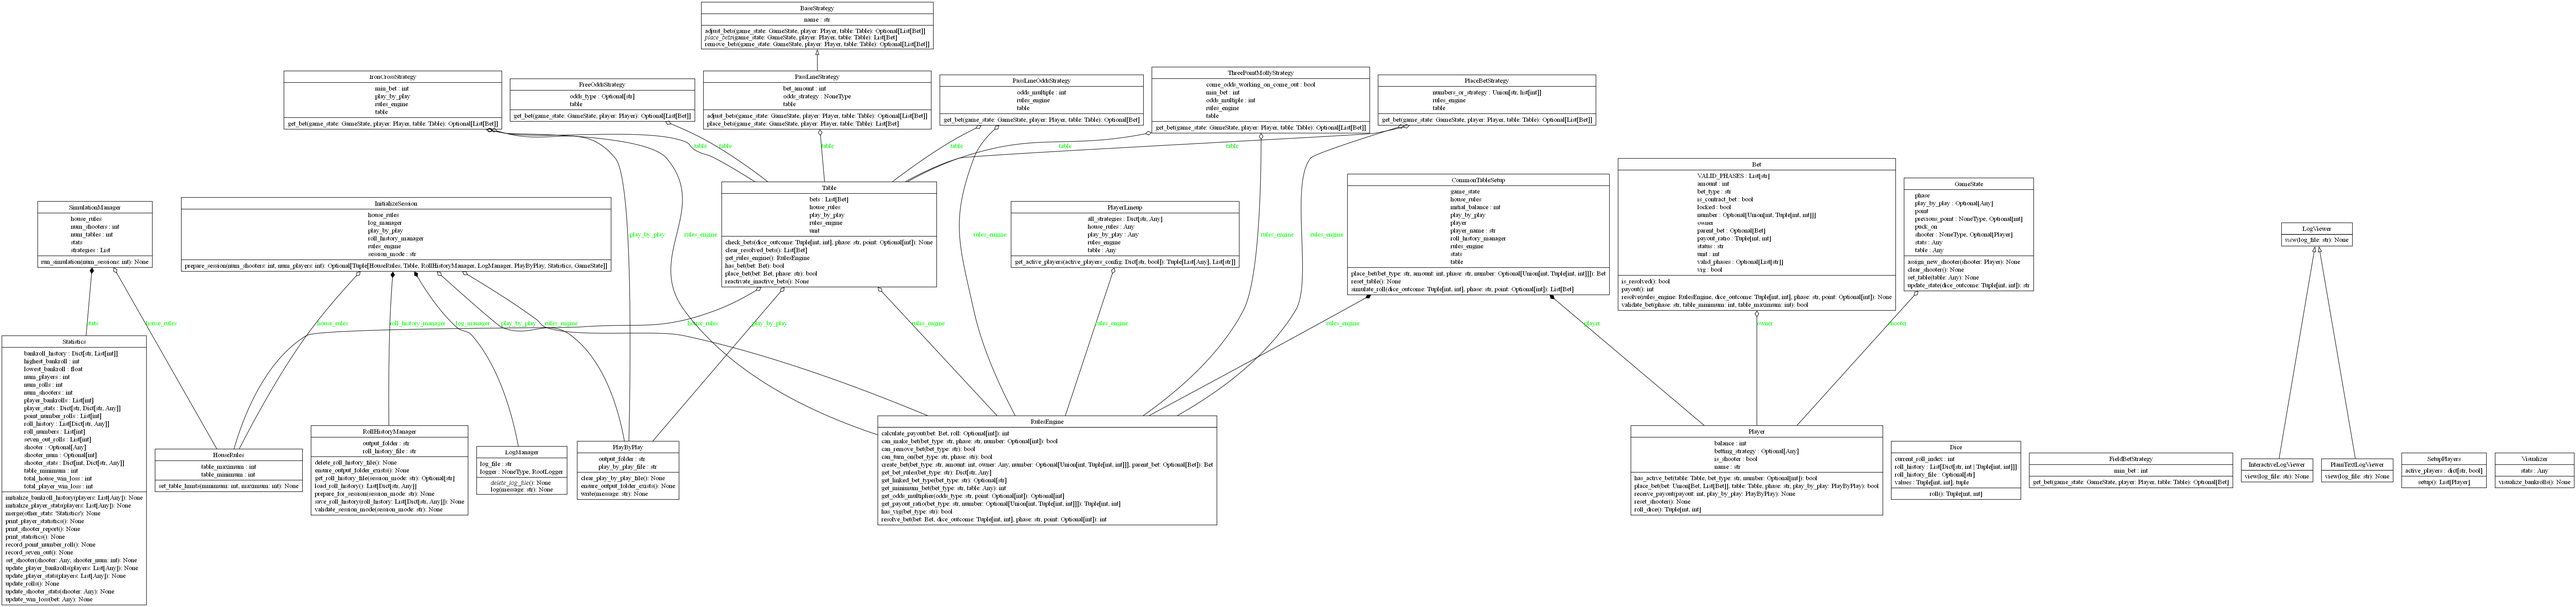
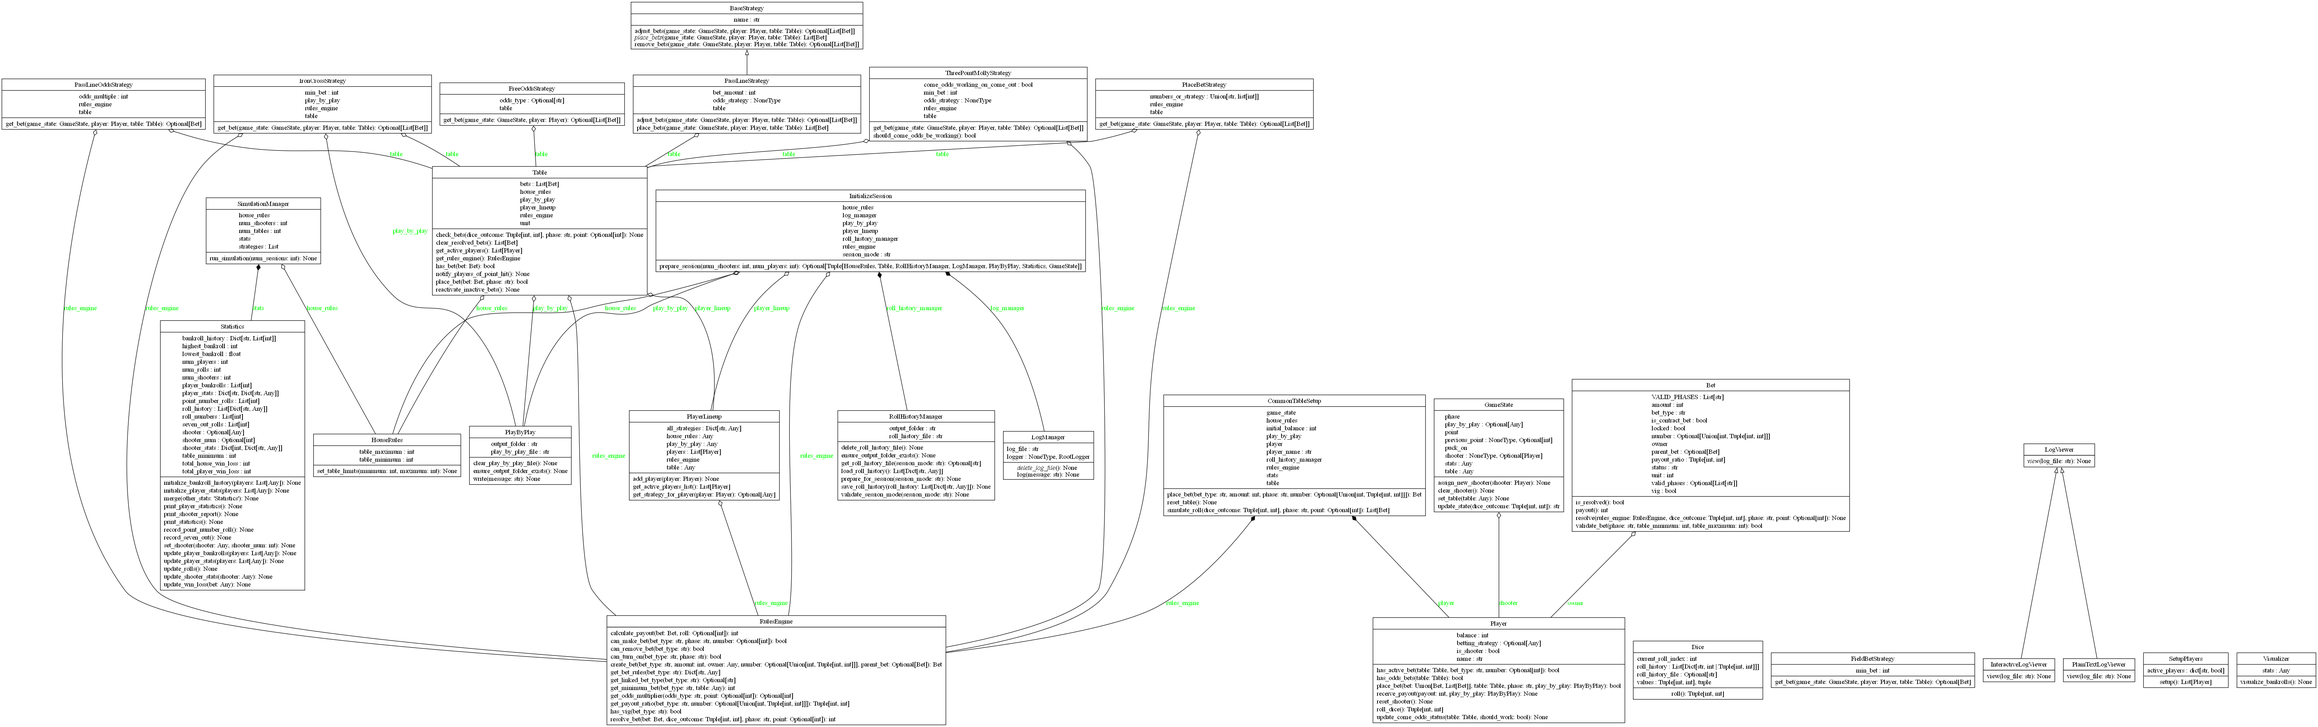
Added Odds On/Off to Lineup

diff --git a/craps/strategies/three_point_molly_strategy.py b/craps/strategies/three_point_molly_strategy.py
@@ -1,5 +1,6 @@
 from __future__ import annotations  # Enable forward references for type hints
 from typing import TYPE_CHECKING, List, Optional
+from craps.strategies.free_odds_strategy import FreeOddsStrategy
 
 if TYPE_CHECKING:
     from craps.table import Table  # Prevents circular imports
@@ -10,22 +11,22 @@ if TYPE_CHECKING:
 
 class ThreePointMollyStrategy:
     """Betting strategy for the 3-Point Molly system."""
-    
-    def __init__(self, table: Table, rules_engine: RulesEngine, min_bet: int, odds_multiple: int = 1, come_odds_working_on_come_out: bool = False) -> None:
+
+    def __init__(self, table: Table, rules_engine: RulesEngine, min_bet: int, odds_type: Optional[str] = None, come_odds_working_on_come_out: bool = False) -> None:
         """
         Initialize the 3-Point Molly strategy.
 
         :param table: The table object to determine minimum bets.
         :param rules_engine: The RulesEngine instance from the table.
         :param min_bet: The minimum bet amount for the table.
-        :param odds_multiple: The multiple of the minimum bet to use for odds (e.g., 1x, 2x).
+        :param odds_type: The type of odds to use (e.g., "3x-4x-5x").
         :param come_odds_working_on_come_out: Whether Come odds bets are working during the come-out roll.
         """
-        self.table: Table = table
-        self.rules_engine: RulesEngine = rules_engine  # Use existing RulesEngine, do not create a new one
-        self.min_bet: int = min_bet
-        self.odds_multiple: int = odds_multiple
-        self.come_odds_working_on_come_out: bool = come_odds_working_on_come_out
+        self.table = table
+        self.rules_engine = rules_engine  # Use existing RulesEngine
+        self.min_bet = min_bet
+        self.odds_strategy = FreeOddsStrategy(table, odds_type) if odds_type else None  # Delegate odds to FreeOddsStrategy
+        self.come_odds_working_on_come_out = come_odds_working_on_come_out
 
     def get_bet(self, game_state: GameState, player: Player, table: Table) -> Optional[List[Bet]]:
         """
@@ -36,51 +37,27 @@ class ThreePointMollyStrategy:
         :param table: The table to place the bets on.
         :return: A list of bets to place, or None if no bets are placed.
         """
-        rules_engine = self.rules_engine  # Use the passed RulesEngine
         bets: List[Bet] = []
 
         # Place a Pass Line bet if no active Pass Line bet exists (only during come-out phase)
         if game_state.phase == "come-out":
             if not any(bet.bet_type == "Pass Line" for bet in table.bets if bet.owner == player):
-                bets.append(rules_engine.create_bet(
-                    "Pass Line",
-                    self.min_bet,
-                    player
-                ))
+                bets.append(self.rules_engine.create_bet("Pass Line", self.min_bet, player))
 
         # Place up to 3 Come bets if fewer than 3 active Come bets exist (only during point phase)
         if game_state.phase == "point":
             active_come_bets = [bet for bet in table.bets if bet.bet_type == "Come" and bet.owner == player]
             if len(active_come_bets) < 3:
-                bets.append(rules_engine.create_bet(
-                    "Come",
-                    self.min_bet,
-                    player
-                ))
+                bets.append(self.rules_engine.create_bet("Come", self.min_bet, player))
 
-        # Place odds on active Pass Line and Come bets (only during point phase)
-        if game_state.phase == "point":
-            for bet in table.bets:
-                if bet.owner == player:
-                    if bet.bet_type == "Pass Line" and bet.status == "active":
-                        # Place Pass Line Odds
-                        odds_amount = self.min_bet * self.odds_multiple
-                        bets.append(rules_engine.create_bet(
-                            "Pass Line Odds",
-                            odds_amount,
-                            player,
-                            number=game_state.point,  # Pass the current point number
-                            parent_bet=bet
-                        ))
-                    elif bet.bet_type == "Come" and bet.status == "active" and bet.number is not None:
-                        # Place Come Odds
-                        odds_amount = self.min_bet * self.odds_multiple
-                        bets.append(rules_engine.create_bet(
-                            "Come Odds",
-                            odds_amount,
-                            player,
-                            number=bet.number,  # Pass the Come bet's number
-                            parent_bet=bet
-                        ))
+        # Place odds on active Pass Line and Come bets using FreeOddsStrategy
+        if self.odds_strategy and game_state.phase == "point":
+            odds_bets = self.odds_strategy.get_bet(game_state, player)
+            if odds_bets:
+                bets.extend(odds_bets)
 
         return bets if bets else None
+
+    def should_come_odds_be_working(self) -> bool:
+        """Return whether the strategy wants Come Odds to be working during the next come-out roll."""
+        return self.come_odds_working_on_come_out  # Player-defined setting

diff --git a/craps/lineup.py b/craps/lineup.py
@@ -1,14 +1,15 @@
-from typing import Dict, Tuple, List, Any
-from .strategies.pass_line_strategy import PassLineStrategy
-from .strategies.place_strategy import PlaceBetStrategy
-from .strategies.field_strategy import FieldBetStrategy
-from .strategies.iron_cross_strategy import IronCrossStrategy
-from .strategies.three_point_molly_strategy import ThreePointMollyStrategy
-from .rules_engine import RulesEngine
+from typing import Dict, Optional, List, Any
+from craps.strategies.pass_line_strategy import PassLineStrategy
+from craps.strategies.place_strategy import PlaceBetStrategy
+from craps.strategies.field_strategy import FieldBetStrategy
+from craps.strategies.iron_cross_strategy import IronCrossStrategy
+from craps.strategies.three_point_molly_strategy import ThreePointMollyStrategy
+from craps.rules_engine import RulesEngine
+from craps.player import Player
 
 class PlayerLineup:
     """Class to manage the lineup of players and their strategies."""
-    
+
     def __init__(self, house_rules: Any, table: Any, play_by_play: Any, rules_engine: RulesEngine) -> None:
         """
         Initialize the player lineup.
@@ -23,13 +24,16 @@ class PlayerLineup:
         self.play_by_play = play_by_play
         self.rules_engine = rules_engine
 
-        # Define all possible strategies and their names
+        # ✅ Store actual Player instances
+        self.players: List[Player] = []
+
+        # Define all supported strategies
         self.all_strategies: Dict[str, Any] = {
             "Pass-Line": PassLineStrategy(bet_amount=self.house_rules.table_minimum, table=self.table),
             "Pass-Line w/ Odds": PassLineStrategy(
                 bet_amount=self.house_rules.table_minimum,
                 table=self.table,
-                odds_type="3x-4x-5x"  # Defaulting to 3x-4x-5x odds
+                odds_type="3x-4x-5x"
             ),
             "$44 Inside": PlaceBetStrategy(table=self.table, numbers_or_strategy="inside", rules_engine=self.rules_engine),
             "$54 Across": PlaceBetStrategy(table=self.table, numbers_or_strategy="across", rules_engine=self.rules_engine),
@@ -38,21 +42,19 @@ class PlayerLineup:
                 table=self.table, min_bet=self.house_rules.table_minimum, play_by_play=self.play_by_play, rules_engine=self.rules_engine
             ),
             "3-Point Molly": ThreePointMollyStrategy(
-                table=self.table, min_bet=self.house_rules.table_minimum, odds_multiple=1, rules_engine=self.rules_engine
+                table=self.table, min_bet=self.house_rules.table_minimum, odds_type="3x-4x-5x", rules_engine=self.rules_engine
             )
         }
 
-    def get_active_players(self, active_players_config: Dict[str, bool]) -> Tuple[List[Any], List[str]]:
-        """
-        Get the list of active strategies and player names based on the configuration.
-        
-        :param active_players_config: A dictionary specifying which players are active.
-        :return: A tuple of (strategies, player_names).
-        """
-        strategies: List[Any] = [
-            strategy for name, strategy in self.all_strategies.items() if active_players_config.get(name, False)
-        ]
-        player_names: List[str] = [
-            name for name, active in active_players_config.items() if active
-        ]
-        return strategies, player_names
+    def add_player(self, player: Player) -> None:
+        """Adds a Player instance to the lineup."""
+        self.players.append(player)
+
+    def get_active_players_list(self) -> List[Player]:
+        """Retrieve a list of active player objects."""
+        return self.players  # ✅ Return actual Player instances
+    
+    def get_strategy_for_player(self, player: Player) -> Optional[Any]:
+        """Retrieve the strategy for a given player."""
+        return player.betting_strategy if player in self.players else None
+    

diff --git a/craps/table.py b/craps/table.py
@@ -6,9 +6,10 @@ from craps.bet import Bet
 from craps.play_by_play import PlayByPlay
 from craps.house_rules import HouseRules
 from craps.rules_engine import RulesEngine
-
+from craps.player import Player
+from craps.lineup import PlayerLineup
 class Table:
-    def __init__(self, house_rules: HouseRules, play_by_play: PlayByPlay, rules_engine: RulesEngine) -> None:
+    def __init__(self, house_rules: HouseRules, play_by_play: PlayByPlay, rules_engine: RulesEngine, player_lineup: PlayerLineup) -> None:
         """
         Initialize the table.
 
@@ -19,6 +20,7 @@ class Table:
         self.house_rules = house_rules
         self.play_by_play = play_by_play
         self.rules_engine = rules_engine  # Use the passed RulesEngine
+        self.player_lineup = player_lineup
         self.bets: List[Bet] = []  # All bets on the table
         self.unit = self.house_rules.table_minimum // 5  # Unit for Place/Buy bets
 
@@ -126,3 +128,15 @@ class Table:
         # Remove resolved bets from active table bets
         self.bets = [bet for bet in self.bets if bet not in resolved_bets]
         return resolved_bets
+    
+    def get_active_players(self) -> List[Player]:
+        """Retrieve all active players at the table."""
+        return self.player_lineup.get_active_players_list()
+
+    def notify_players_of_point_hit(self) -> None:
+        """Notifies each player that the point was hit and asks if they want their Come Odds working."""
+        for player in self.get_active_players():
+            strategy = self.player_lineup.get_strategy_for_player(player)
+            if player.has_odds_bets(self) and strategy:
+                should_work = strategy.should_come_odds_be_working()
+                player.update_come_odds_status(self, should_work)

diff --git a/craps/session_initializer.py b/craps/session_initializer.py
@@ -7,6 +7,7 @@ from craps.play_by_play import PlayByPlay
 from craps.rules_engine import RulesEngine
 from craps.statistics import Statistics
 from craps.game_state import GameState
+from craps.lineup import PlayerLineup
 
 class InitializeSession:
     def __init__(
@@ -15,6 +16,7 @@ class InitializeSession:
         house_rules: HouseRules,
         play_by_play: PlayByPlay, 
         rules_engine: RulesEngine, 
+        player_lineup: PlayerLineup,
         log_manager: Optional[LogManager] = None
     ) -> None:
         """
@@ -32,6 +34,7 @@ class InitializeSession:
         self.log_manager = log_manager or LogManager()
         self.play_by_play: PlayByPlay = play_by_play
         self.rules_engine: RulesEngine = rules_engine
+        self.player_lineup: PlayerLineup = player_lineup
 
     def prepare_session(
         self, num_shooters: int, num_players: int
@@ -43,7 +46,7 @@ class InitializeSession:
             print(f"Error: {e}")
             return None
 
-        table = Table(self.house_rules, self.play_by_play, self.rules_engine)
+        table = Table(self.house_rules, self.play_by_play, self.rules_engine, self.player_lineup)
 
         # Initialize Statistics and GameState
         stats = Statistics(self.house_rules.table_minimum, num_shooters, num_players)

diff --git a/craps/common.py b/craps/common.py
@@ -11,6 +11,7 @@ from craps.rules_engine import RulesEngine
 from craps.player import Player
 from craps.bet import Bet
 from craps.session_initializer import InitializeSession
+from craps.lineup import PlayerLineup
 
 class CommonTableSetup:
     """Common setup for all craps tests, now using InitializeSession for consistency."""
@@ -23,6 +24,7 @@ class CommonTableSetup:
         play_by_play = PlayByPlay()
         log_manager = LogManager()
         rules_engine = RulesEngine()
+        player_lineup = PlayerLineup(house_rules, None, play_by_play, rules_engine)
 
         # ✅ Use these in InitializeSession
         session_initializer = InitializeSession(
@@ -30,8 +32,9 @@ class CommonTableSetup:
             house_rules=house_rules,
             play_by_play=play_by_play,
             log_manager=log_manager,
-            rules_engine=rules_engine
-)
+            rules_engine=rules_engine,
+            player_lineup=player_lineup
+        )
 
         session_data = session_initializer.prepare_session(num_shooters=10, num_players=1)
 

diff --git a/craps/single_session.py b/craps/single_session.py
@@ -8,6 +8,7 @@ from craps.session_initializer import InitializeSession
 from craps.rules_engine import RulesEngine
 from craps.play_by_play import PlayByPlay
 from craps.player_setup import SetupPlayers
+from craps.lineup import PlayerLineup
 from config import HOUSE_RULES
 import os
 
@@ -34,14 +35,17 @@ def run_single_session(
     rules_engine = RulesEngine()
     play_by_play = PlayByPlay()
     log_manager = LogManager()
+    player_lineup = PlayerLineup(house_rules, None, play_by_play, rules_engine)  # ✅ Added PlayerLineup
 
     session_initializer = InitializeSession(
         session_mode="live",
         house_rules=house_rules,  # ✅ Now guaranteed to be a HouseRules object
         play_by_play=play_by_play,
         log_manager=log_manager,
-        rules_engine=rules_engine
+        rules_engine=rules_engine,
+        player_lineup=player_lineup
     )
+    
     session_data = session_initializer.prepare_session(
         num_shooters or 10,  # ✅ Default if None
         len(strategies or [])  # ✅ Safe check for None

diff --git a/craps/player.py b/craps/player.py
@@ -100,3 +100,13 @@ class Player:
         Reset the shooter status when a new round begins.
         """
         self.is_shooter = False
+
+    def has_odds_bets(self, table: Table) -> bool:
+        """Check if the player has any active Come Odds bets."""
+        return any(bet.bet_type == "Come Odds" and bet.status == "active" for bet in table.bets if bet.owner == self)
+
+    def update_come_odds_status(self, table: Table, should_work: bool) -> None:
+        """Update the status of the player's Come Odds bets based on strategy preference."""
+        for bet in table.bets:
+            if bet.owner == self and bet.bet_type == "Come Odds":
+                bet.status = "active" if should_work else "inactive"
